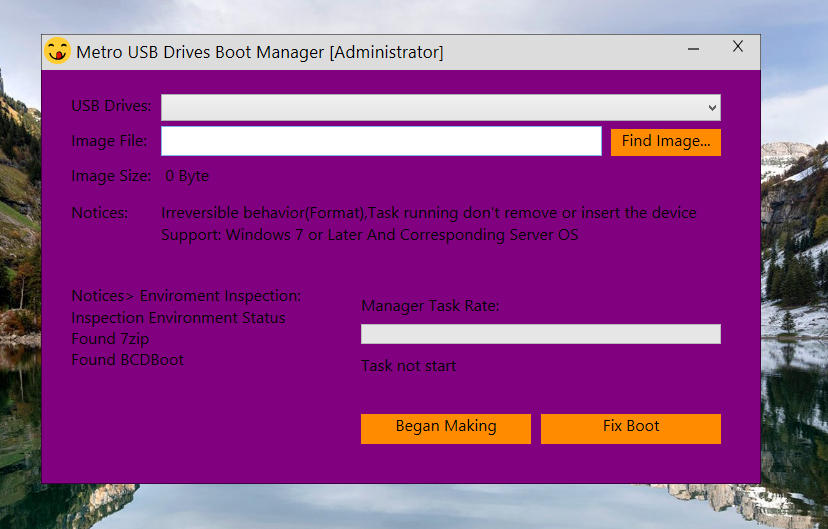
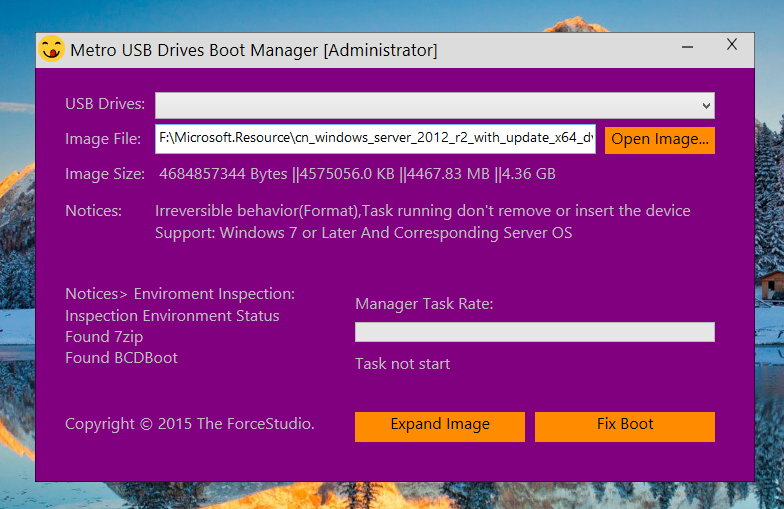
remove unused brush and change text color

diff --git a/iBurnMgr/MetroWindow.cpp b/iBurnMgr/MetroWindow.cpp
@@ -240,22 +240,19 @@ HRESULT LoadResourceBitmap(
 
 MetroWindow::MetroWindow() :m_pDirect2dFactory(NULL),
 m_pRenderTarget(NULL),
-m_NoClinetBrush(NULL),
-m_pDarkBlueBindBrush(NULL),
+m_TitleClinetBrush(NULL),
+m_pMinButtonActiveBrush(NULL),
 m_pMetroButtonNsBrush(NULL),
 m_pMetroButtonLsBrush(NULL),
-m_pBackgroundLightBrush(NULL),
-m_pStatusAreaBrush(NULL),
+m_pUITextBrush(NULL),
 m_pLightWhiteBrush(NULL),
 m_pControlTextBrush(NULL),
 m_pDWriteTypography(NULL),
-m_pLightRedBrush(NULL),
-m_pContentAreaBrush(NULL),
-m_pTextAreaBrush(NULL),
-pWICFactory(NULL),
-pBitmap(NULL),
-m_pITextFormat(NULL),
-m_pITextFormatCtl(NULL),
+m_pCloseButtonClickBrush(NULL),
+m_pWICFactory(NULL),
+m_pBitmap(NULL),
+m_pITextFormatTitle(NULL),
+m_pITextFormatContent(NULL),
 m_pIDWriteFactory(NULL),
 IsInvalid(false),
 _bMouseTrack(TRUE),
@@ -279,37 +276,32 @@ dwExit(0)
 	MTNotices = L"Notices Center:";
 	JobStatusRate = L"Task not start";
 	ProcessInfo = L"Manager Task Rate:";
-
+	copyright = L"Copyright \xA9 2015 The ForceStudio.";
 	m_mbFind.bStatus = false;
-	m_mbFind.caption = L"Find Image...";
+	m_mbFind.caption = L"Open Image...";
 	m_FixBoot.bStatus = false;
 	m_FixBoot.caption = L"Fix Boot";
 	m_Operate.bStatus = false;
 	//m_Operate.caption =muiController->m_langmap[L"BMake"];
-	m_Operate.caption = L"Began Making";
+	m_Operate.caption = L"Expand Image";
 
 }
 MetroWindow::~MetroWindow()
 {
 	SafeRelease(&m_pDirect2dFactory);
 	SafeRelease(&m_pRenderTarget);
-	SafeRelease(&m_NoClinetBrush);
-	SafeRelease(&m_pDarkBlueBindBrush);
+	SafeRelease(&m_TitleClinetBrush);
+	SafeRelease(&m_pMinButtonActiveBrush);
 	SafeRelease(&m_pMetroButtonNsBrush);
 	SafeRelease(&m_pMetroButtonLsBrush);
 	SafeRelease(&m_pLightWhiteBrush);
-	SafeRelease(&m_pStatusAreaBrush);
-	SafeRelease(&m_pBackgroundLightBrush);
-	SafeRelease(&m_pContentAreaBrush);
-	SafeRelease(&m_pLightRedBrush);
-	SafeRelease(&m_pTextAreaBrush);
+	SafeRelease(&m_pUITextBrush);
+	SafeRelease(&m_pCloseButtonClickBrush);
 	SafeRelease(&m_pControlTextBrush);
-	//SafeRelease(&pBitmap);
-	//SafeRelease(&pWICFactory);
 	SafeRelease(&m_pDWriteTypography);
 	SafeRelease(&m_pIDWriteFactory);
-	SafeRelease(&m_pITextFormat);
-	SafeRelease(&m_pITextFormatCtl);
+	SafeRelease(&m_pITextFormatTitle);
+	SafeRelease(&m_pITextFormatContent);
 	
 
 
@@ -955,49 +947,42 @@ HRESULT MetroWindow::CreateDeviceResources()
 				NULL,
 				CLSCTX_INPROC_SERVER,
 				IID_IWICImagingFactory,
-				reinterpret_cast<void **>(&pWICFactory)
+				reinterpret_cast<void **>(&m_pWICFactory)
 				);
 		}
 		if (SUCCEEDED(hr))
 		{
-			hr = LoadResourceBitmap(m_pRenderTarget, pWICFactory,
+			hr = LoadResourceBitmap(m_pRenderTarget, m_pWICFactory,
 				MAKEINTRESOURCE(IDP_EMOJI_LOG),
 				L"PNG",
-				0, 0, &pBitmap);
-		}
-		if (SUCCEEDED(hr))
-		{
-			hr = m_pRenderTarget->CreateSolidColorBrush(
-				D2D1::ColorF(D2D1::ColorF::DarkTurquoise),
-				&m_pBackgroundLightBrush
-				);
+				0, 0, &m_pBitmap);
 		}
 		if (SUCCEEDED(hr))
 		{
 			hr = m_pRenderTarget->CreateSolidColorBrush(
 				D2D1::ColorF(0x3867B2),
-				&m_pDarkBlueBindBrush
+				&m_pMinButtonActiveBrush
 				);
 		}
 		if (SUCCEEDED(hr))
 		{
 			hr = m_pRenderTarget->CreateSolidColorBrush(
 				D2D1::ColorF(D2D1::ColorF::Gainsboro),
-				&m_NoClinetBrush
+				&m_TitleClinetBrush
 				);
 		}
 		if (SUCCEEDED(hr))
 		{
 			hr = m_pRenderTarget->CreateSolidColorBrush(
 				D2D1::ColorF(D2D1::ColorF::Firebrick),
-				&m_pLightRedBrush
+				&m_pCloseButtonClickBrush
 				);
 		}
 		if (SUCCEEDED(hr))
 		{
 			hr = m_pRenderTarget->CreateSolidColorBrush(
-				D2D1::ColorF(D2D1::ColorF::PaleTurquoise),
-				&m_pStatusAreaBrush
+				D2D1::ColorF(D2D1::ColorF::Silver),
+				&m_pUITextBrush
 				);
 		}
 		if (SUCCEEDED(hr))
@@ -1028,19 +1013,6 @@ HRESULT MetroWindow::CreateDeviceResources()
 				&m_pControlTextBrush
 				);
 		}
-		if (SUCCEEDED(hr))
-		{
-			hr = m_pRenderTarget->CreateSolidColorBrush(
-				D2D1::ColorF(D2D1::ColorF::Silver),
-				&m_pContentAreaBrush
-				);
-		}
-		if (SUCCEEDED(hr))
-		{
-			hr = m_pRenderTarget->CreateSolidColorBrush(
-				D2D1::ColorF(D2D1::ColorF::LimeGreen),
-				&m_pTextAreaBrush);
-		}
 
 	}
 
@@ -1050,15 +1022,12 @@ HRESULT MetroWindow::CreateDeviceResources()
 void MetroWindow::DiscardDeviceResources()
 {
 	SafeRelease(&m_pRenderTarget);
-	SafeRelease(&m_pDarkBlueBindBrush);
+	SafeRelease(&m_pMinButtonActiveBrush);
 	SafeRelease(&m_pMetroButtonNsBrush);
 	SafeRelease(&m_pMetroButtonLsBrush);
 	SafeRelease(&m_pLightWhiteBrush);
-	SafeRelease(&m_pStatusAreaBrush);
-	SafeRelease(&m_pBackgroundLightBrush);
-	SafeRelease(&m_pContentAreaBrush);
-	SafeRelease(&m_pLightRedBrush);
-	SafeRelease(&m_pTextAreaBrush);
+	SafeRelease(&m_pUITextBrush);
+	SafeRelease(&m_pCloseButtonClickBrush);
 	SafeRelease(&m_pControlTextBrush);
 }
 HRESULT MetroWindow::OnRender()
@@ -1079,9 +1048,9 @@ HRESULT MetroWindow::OnRender()
 		DWRITE_FONT_STRETCH_NORMAL,
 		13.0f * 96.0f / 72.0f,
 		localehlp.localename.c_str(),
-		&m_pITextFormat
+		&m_pITextFormatTitle
 		);
-	 //m_pITextFormatCtl
+	 //m_pITextFormatContent
 	m_pIDWriteFactory->CreateTextFormat(
 		L"Segeo UI",
 		NULL,
@@ -1090,7 +1059,7 @@ HRESULT MetroWindow::OnRender()
 		DWRITE_FONT_STRETCH_NORMAL,
 		12.0f * 96.0f / 72.0f,
 		localehlp.localename.c_str(),
-		&m_pITextFormatCtl
+		&m_pITextFormatContent
 		);
 	if (SUCCEEDED(hr))
 	{
@@ -1111,12 +1080,12 @@ HRESULT MetroWindow::OnRender()
 
 #pragma warning(disable:4244)
 #pragma warning(disable:4267)
-		m_pRenderTarget->FillRectangle(D2D1::RectF(0, 0, rtSize.width, 36),m_NoClinetBrush);
-		D2D1_SIZE_F size = pBitmap->GetSize();
+		m_pRenderTarget->FillRectangle(D2D1::RectF(0, 0, rtSize.width, 36),m_TitleClinetBrush);
+		D2D1_SIZE_F size = m_pBitmap->GetSize();
 		D2D1_POINT_2F upperLeftCorner = D2D1::Point2F(0.f, 0.f);
 
 		m_pRenderTarget->DrawBitmap(
-			pBitmap,
+			m_pBitmap,
 			D2D1::RectF(
 			upperLeftCorner.x,
 			upperLeftCorner.y,
@@ -1124,32 +1093,28 @@ HRESULT MetroWindow::OnRender()
 			upperLeftCorner.y + size.height)
 			);
 
-		//m_pRenderTarget->FillRectangle(D2D1::RectF(xArea.left, xArea.top, xArea.right, xArea.bottom), m_pContentAreaBrush);
-		//m_pRenderTarget->FillRectangle(D2D1::RectF(xArea.left, xArea.bottom + 10.0f, xArea.right / 2 - 60.f, xArea.bottom + 200.0f), m_pBackgroundLightBrush);
-		//m_pRenderTarget->FillRectangle(D2D1::RectF(xArea.right / 2 - 50.f, xArea.bottom + 10.0f, xArea.right, xArea.bottom + 200.0f), m_pStatusAreaBrush);
-		//m_pRenderTarget->FillRectangle(D2D1::RectF(120, 130, 680, 157), m_pTextAreaBrush);
 		//// Text Draw
-		m_pRenderTarget->DrawTextW(windowTitle.c_str(), windowTitle.length(), m_pITextFormat, D2D1::RectF(35, 5, 600, 25), m_pControlTextBrush, D2D1_DRAW_TEXT_OPTIONS_NONE, DWRITE_MEASURING_MODE_NATURAL);
+		m_pRenderTarget->DrawTextW(windowTitle.c_str(), windowTitle.length(), m_pITextFormatTitle, D2D1::RectF(35, 5, 600, 25), m_pControlTextBrush, D2D1_DRAW_TEXT_OPTIONS_NONE, DWRITE_MEASURING_MODE_NATURAL);
 
-		//m_pITextFormatCtl->SetTextAlignment(DWRITE_TEXT_ALIGNMENT_TRAILING);
-		m_pRenderTarget->DrawTextW(L"USB Drives:", 11, m_pITextFormatCtl, D2D1::RectF(30, 60, 110, 85), m_pControlTextBrush, D2D1_DRAW_TEXT_OPTIONS_NONE, DWRITE_MEASURING_MODE_NATURAL);
-		m_pRenderTarget->DrawTextW(L"Image File:", 12, m_pITextFormatCtl, D2D1::RectF(30, 95, 110, 122), m_pControlTextBrush, D2D1_DRAW_TEXT_OPTIONS_NONE, DWRITE_MEASURING_MODE_NATURAL);
-		m_pRenderTarget->DrawTextW(L"Image Size:", 12, m_pITextFormatCtl, D2D1::RectF(30, 130, 110, 157), m_pControlTextBrush, D2D1_DRAW_TEXT_OPTIONS_NONE, DWRITE_MEASURING_MODE_NATURAL);
-		m_pRenderTarget->DrawTextW(L"Notices:", 8, m_pITextFormatCtl, D2D1::RectF(30, 167, 110, 221), m_pControlTextBrush, D2D1_DRAW_TEXT_OPTIONS_NONE, DWRITE_MEASURING_MODE_NATURAL);
-
-		m_pITextFormatCtl->SetTextAlignment(DWRITE_TEXT_ALIGNMENT_JUSTIFIED);
-		m_pRenderTarget->DrawTextW(ProcessInfo.c_str(), ProcessInfo.length(), m_pITextFormatCtl, D2D1::RectF(320.0f, xArea.bottom + 30.0f, xArea.right, xArea.bottom + 200.0f), m_pControlTextBrush, D2D1_DRAW_TEXT_OPTIONS_NONE, DWRITE_MEASURING_MODE_NATURAL);
-		m_pRenderTarget->DrawTextW(JobStatusRate.c_str(), JobStatusRate.length(), m_pITextFormatCtl, D2D1::RectF(320.0f, xArea.bottom + 90.0f, xArea.right, xArea.bottom + 260.0f), m_pControlTextBrush, D2D1_DRAW_TEXT_OPTIONS_NONE, DWRITE_MEASURING_MODE_NATURAL);
-		m_pRenderTarget->DrawTextW(MTNotices.c_str(), MTNotices.length(), m_pITextFormatCtl, D2D1::RectF(xArea.left + 10.f, xArea.bottom + 20.0f, xArea.right / 2 - 60.f, xArea.bottom + 200.0f), m_pControlTextBrush, D2D1_DRAW_TEXT_OPTIONS_NONE, DWRITE_MEASURING_MODE_NATURAL);
-		m_pRenderTarget->DrawTextW(Notes, wcslen(Notes), m_pITextFormatCtl, D2D1::RectF(120, 167, 690, 221), m_pControlTextBrush, D2D1_DRAW_TEXT_OPTIONS_NONE, DWRITE_MEASURING_MODE_NATURAL);
-		m_pRenderTarget->DrawTextW(SizeStr, wcslen(SizeStr), m_pITextFormatCtl, D2D1::RectF(120, 130, 680, 157), m_pControlTextBrush, D2D1_DRAW_TEXT_OPTIONS_NONE, DWRITE_MEASURING_MODE_NATURAL);
+		//m_pITextFormatContent->SetTextAlignment(DWRITE_TEXT_ALIGNMENT_TRAILING);
+		m_pRenderTarget->DrawTextW(L"USB Drives:", 11, m_pITextFormatContent, D2D1::RectF(30, 60, 110, 85), m_pUITextBrush, D2D1_DRAW_TEXT_OPTIONS_NONE, DWRITE_MEASURING_MODE_NATURAL);
+		m_pRenderTarget->DrawTextW(L"Image File:", 12, m_pITextFormatContent, D2D1::RectF(30, 95, 110, 122), m_pUITextBrush, D2D1_DRAW_TEXT_OPTIONS_NONE, DWRITE_MEASURING_MODE_NATURAL);
+		m_pRenderTarget->DrawTextW(L"Image Size:", 12, m_pITextFormatContent, D2D1::RectF(30, 130, 110, 157), m_pUITextBrush, D2D1_DRAW_TEXT_OPTIONS_NONE, DWRITE_MEASURING_MODE_NATURAL);
+		m_pRenderTarget->DrawTextW(L"Notices:", 8, m_pITextFormatContent, D2D1::RectF(30, 167, 110, 221), m_pUITextBrush, D2D1_DRAW_TEXT_OPTIONS_NONE, DWRITE_MEASURING_MODE_NATURAL);
+		m_pRenderTarget->DrawTextW(copyright.c_str(), copyright.size(), m_pITextFormatContent, D2D1::RectF(30, m_Operate.place.top, 400, m_Operate.place.bottom), m_pUITextBrush, D2D1_DRAW_TEXT_OPTIONS_NONE, DWRITE_MEASURING_MODE_NATURAL);
+		m_pITextFormatContent->SetTextAlignment(DWRITE_TEXT_ALIGNMENT_JUSTIFIED);
+		m_pRenderTarget->DrawTextW(ProcessInfo.c_str(), ProcessInfo.length(), m_pITextFormatContent, D2D1::RectF(320.0f, xArea.bottom + 30.0f, xArea.right, xArea.bottom + 200.0f), m_pUITextBrush, D2D1_DRAW_TEXT_OPTIONS_NONE, DWRITE_MEASURING_MODE_NATURAL);
+		m_pRenderTarget->DrawTextW(JobStatusRate.c_str(), JobStatusRate.length(), m_pITextFormatContent, D2D1::RectF(320.0f, xArea.bottom + 90.0f, xArea.right, xArea.bottom + 260.0f), m_pUITextBrush, D2D1_DRAW_TEXT_OPTIONS_NONE, DWRITE_MEASURING_MODE_NATURAL);
+		m_pRenderTarget->DrawTextW(MTNotices.c_str(), MTNotices.length(), m_pITextFormatContent, D2D1::RectF(xArea.left + 10.f, xArea.bottom + 20.0f, xArea.right / 2 - 60.f, xArea.bottom + 200.0f), m_pUITextBrush, D2D1_DRAW_TEXT_OPTIONS_NONE, DWRITE_MEASURING_MODE_NATURAL);
+		m_pRenderTarget->DrawTextW(Notes, wcslen(Notes), m_pITextFormatContent, D2D1::RectF(120, 167, 690, 221), m_pUITextBrush, D2D1_DRAW_TEXT_OPTIONS_NONE, DWRITE_MEASURING_MODE_NATURAL);
+		m_pRenderTarget->DrawTextW(SizeStr, wcslen(SizeStr), m_pITextFormatContent, D2D1::RectF(120, 130, 680, 157), m_pUITextBrush, D2D1_DRAW_TEXT_OPTIONS_NONE, DWRITE_MEASURING_MODE_NATURAL);
 		/////////////////
 		/// Button Draw
-		m_pITextFormatCtl->SetTextAlignment(DWRITE_TEXT_ALIGNMENT_CENTER);
-		m_pITextFormat->SetTextAlignment(DWRITE_TEXT_ALIGNMENT_CENTER);
+		m_pITextFormatContent->SetTextAlignment(DWRITE_TEXT_ALIGNMENT_CENTER);
+		m_pITextFormatTitle->SetTextAlignment(DWRITE_TEXT_ALIGNMENT_CENTER);
 		//Exit
 		if (pt.x >= m_rexit.place.left&&pt.x <= m_rexit.place.right&&pt.y >= m_rexit.place.top&&pt.y <= m_rexit.place.bottom){
-			m_pRenderTarget->FillRectangle(D2D1::RectF(m_rexit.place.left, m_rexit.place.top, m_rexit.place.right + 1, m_rexit.place.bottom), m_pLightRedBrush);
+			m_pRenderTarget->FillRectangle(D2D1::RectF(m_rexit.place.left, m_rexit.place.top, m_rexit.place.right + 1, m_rexit.place.bottom), m_pCloseButtonClickBrush);
 			m_pRenderTarget->DrawLine(D2D1::Point2F(m_rexit.place.left + 17.5f, m_rexit.place.top + 6.5f), D2D1::Point2F(m_rexit.place.right - 17.5f, m_rexit.place.bottom - 6.5f), m_pLightWhiteBrush, 1.0f);
 			m_pRenderTarget->DrawLine(D2D1::Point2F(m_rexit.place.left + 17.5f, m_rexit.place.bottom - 6.5f), D2D1::Point2F(m_rexit.place.right - 17.5f, m_rexit.place.top + 6.5f), m_pLightWhiteBrush, 1.0f);
 		}
@@ -1160,7 +1125,7 @@ HRESULT MetroWindow::OnRender()
 		//Min
 		if (pt.x >= m_rmin.place.left&&pt.x < m_rmin.place.right&&pt.y >= m_rmin.place.top&&pt.y <= m_rmin.place.bottom)
 		{
-			m_pRenderTarget->FillRectangle(D2D1::RectF(m_rmin.place.left, m_rmin.place.top, m_rmin.place.right, m_rmin.place.bottom), m_pDarkBlueBindBrush);
+			m_pRenderTarget->FillRectangle(D2D1::RectF(m_rmin.place.left, m_rmin.place.top, m_rmin.place.right, m_rmin.place.bottom), m_pMinButtonActiveBrush);
 			m_pRenderTarget->DrawLine(D2D1::Point2F(m_rmin.place.left + 17, m_rmin.place.top + 15), D2D1::Point2F(m_rmin.place.right - 17, m_rmin.place.top + 15), m_pLightWhiteBrush, 1.2f);
 		}
 		else{
@@ -1174,7 +1139,7 @@ HRESULT MetroWindow::OnRender()
 		else{
 			m_pRenderTarget->FillRectangle(D2D1::RectF(m_mbFind.place.left, m_mbFind.place.top, m_mbFind.place.right, m_mbFind.place.bottom), m_pMetroButtonNsBrush);
 		}
-		m_pRenderTarget->DrawTextW(m_mbFind.caption.c_str(), m_mbFind.caption.length(), m_pITextFormatCtl, D2D1::RectF(m_mbFind.place.left, m_mbFind.place.top, m_mbFind.place.right, m_mbFind.place.bottom), m_pControlTextBrush, D2D1_DRAW_TEXT_OPTIONS_NONE, DWRITE_MEASURING_MODE_NATURAL);
+		m_pRenderTarget->DrawTextW(m_mbFind.caption.c_str(), m_mbFind.caption.length(), m_pITextFormatContent, D2D1::RectF(m_mbFind.place.left, m_mbFind.place.top, m_mbFind.place.right, m_mbFind.place.bottom), m_pControlTextBrush, D2D1_DRAW_TEXT_OPTIONS_NONE, DWRITE_MEASURING_MODE_NATURAL);
 		//FixBoot
 		if (pt.x >= m_FixBoot.place.left&&pt.x <= m_FixBoot.place.right&&pt.y >= m_FixBoot.place.top&&pt.y <= m_FixBoot.place.bottom)
 		{
@@ -1183,7 +1148,7 @@ HRESULT MetroWindow::OnRender()
 		else{
 			m_pRenderTarget->FillRectangle(D2D1::RectF(m_FixBoot.place.left, m_FixBoot.place.top, m_FixBoot.place.right, m_FixBoot.place.bottom), m_pMetroButtonNsBrush);
 		}
-		m_pRenderTarget->DrawTextW(m_FixBoot.caption.c_str(), m_FixBoot.caption.length(), m_pITextFormatCtl, D2D1::RectF(m_FixBoot.place.left, m_FixBoot.place.top, m_FixBoot.place.right, m_FixBoot.place.bottom), m_pControlTextBrush, D2D1_DRAW_TEXT_OPTIONS_NONE, DWRITE_MEASURING_MODE_NATURAL);
+		m_pRenderTarget->DrawTextW(m_FixBoot.caption.c_str(), m_FixBoot.caption.length(), m_pITextFormatContent, D2D1::RectF(m_FixBoot.place.left, m_FixBoot.place.top, m_FixBoot.place.right, m_FixBoot.place.bottom), m_pControlTextBrush, D2D1_DRAW_TEXT_OPTIONS_NONE, DWRITE_MEASURING_MODE_NATURAL);
 		//Operate
 		if (pt.x >= m_Operate.place.left&&pt.x <= m_Operate.place.right&&pt.y >= m_Operate.place.top&&pt.y <= m_Operate.place.bottom)
 		{
@@ -1192,7 +1157,8 @@ HRESULT MetroWindow::OnRender()
 		else{
 			m_pRenderTarget->FillRectangle(D2D1::RectF(m_Operate.place.left, m_Operate.place.top, m_Operate.place.right, m_Operate.place.bottom), m_pMetroButtonNsBrush);
 		}
-		m_pRenderTarget->DrawTextW(m_Operate.caption.c_str(), m_Operate.caption.length(), m_pITextFormatCtl, D2D1::RectF(m_Operate.place.left, m_Operate.place.top, m_Operate.place.right, m_Operate.place.bottom), m_pControlTextBrush, D2D1_DRAW_TEXT_OPTIONS_NONE, DWRITE_MEASURING_MODE_NATURAL);
+		m_pRenderTarget->DrawTextW(m_Operate.caption.c_str(), m_Operate.caption.length(), m_pITextFormatContent, D2D1::RectF(m_Operate.place.left, m_Operate.place.top, m_Operate.place.right, m_Operate.place.bottom), m_pControlTextBrush, D2D1_DRAW_TEXT_OPTIONS_NONE, DWRITE_MEASURING_MODE_NATURAL);
+		
 		////
 #pragma warning(default:4244)
 #pragma warning(default:4267)	

diff --git a/iBurnMgr/MetroWindow.h b/iBurnMgr/MetroWindow.h
@@ -42,22 +42,19 @@ namespace Metro{
 		DWORD FontTabel;
 		ID2D1Factory* m_pDirect2dFactory;
 		ID2D1HwndRenderTarget* m_pRenderTarget;
-		ID2D1SolidColorBrush*m_NoClinetBrush;
-		ID2D1SolidColorBrush* m_pDarkBlueBindBrush;
+		ID2D1SolidColorBrush* m_TitleClinetBrush;
+		ID2D1SolidColorBrush* m_pMinButtonActiveBrush;
 		ID2D1SolidColorBrush* m_pMetroButtonNsBrush;
 		ID2D1SolidColorBrush* m_pMetroButtonLsBrush;
-		ID2D1SolidColorBrush* m_pStatusAreaBrush;
-		ID2D1SolidColorBrush* m_pLightRedBrush;
+		ID2D1SolidColorBrush* m_pUITextBrush;
+		ID2D1SolidColorBrush* m_pCloseButtonClickBrush;
 		ID2D1SolidColorBrush* m_pLightWhiteBrush;
-		ID2D1SolidColorBrush* m_pBackgroundLightBrush;
-		ID2D1SolidColorBrush* m_pContentAreaBrush;
 		ID2D1SolidColorBrush* m_pControlTextBrush;
-		ID2D1SolidColorBrush* m_pTextAreaBrush;
 
-		IWICImagingFactory*		pWICFactory;
-		ID2D1Bitmap* pBitmap;
-		IDWriteTextFormat* m_pITextFormat;
-		IDWriteTextFormat* m_pITextFormatCtl;
+		IWICImagingFactory*		m_pWICFactory;
+		ID2D1Bitmap* m_pBitmap;
+		IDWriteTextFormat* m_pITextFormatTitle;
+		IDWriteTextFormat* m_pITextFormatContent;
 		IDWriteFactory* m_pIDWriteFactory;
 		IDWriteTypography*    m_pDWriteTypography;
 		HRESULT CreateDeviceIndependentResources();
@@ -146,6 +143,7 @@ namespace Metro{
 		std::wstring JobStatusRate;
 		std::wstring ProcessInfo;
 		std::wstring windowTitle;
+		std::wstring copyright;
 	};
 }
 #endif
